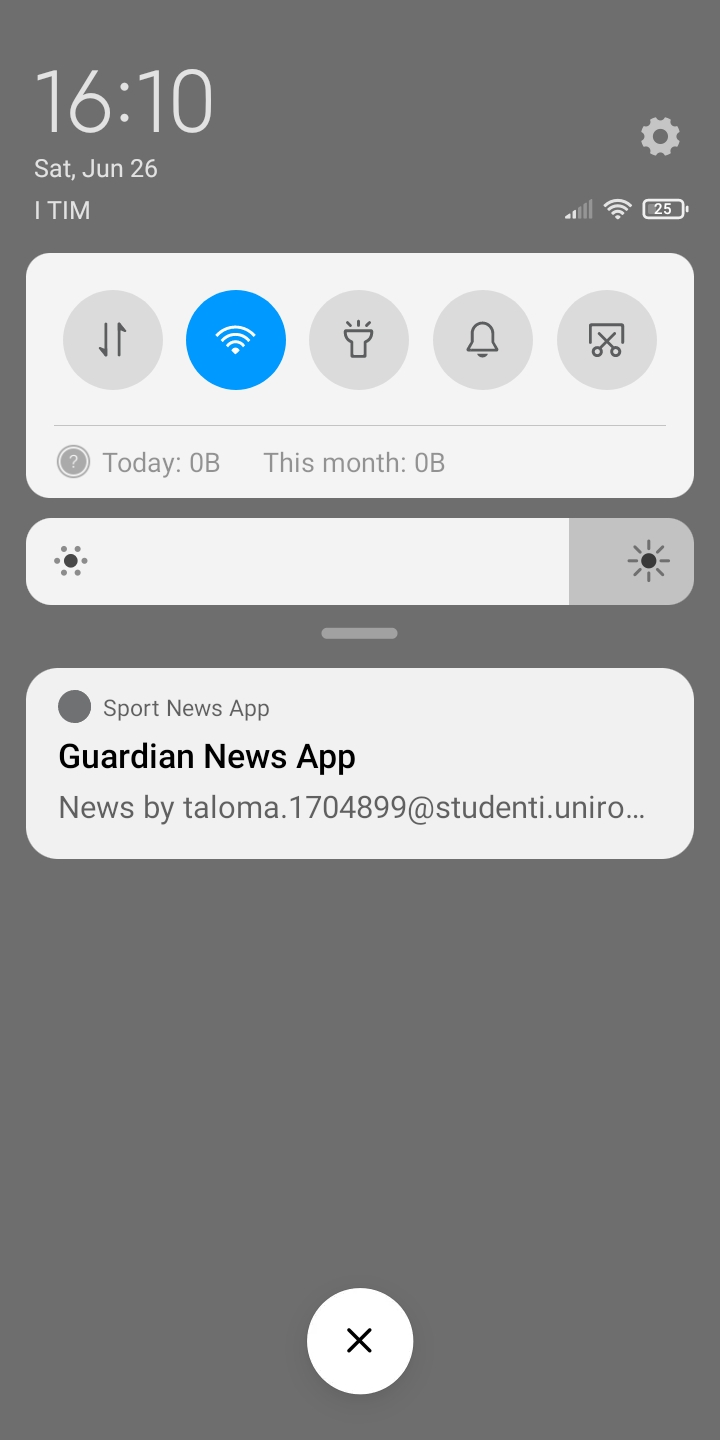
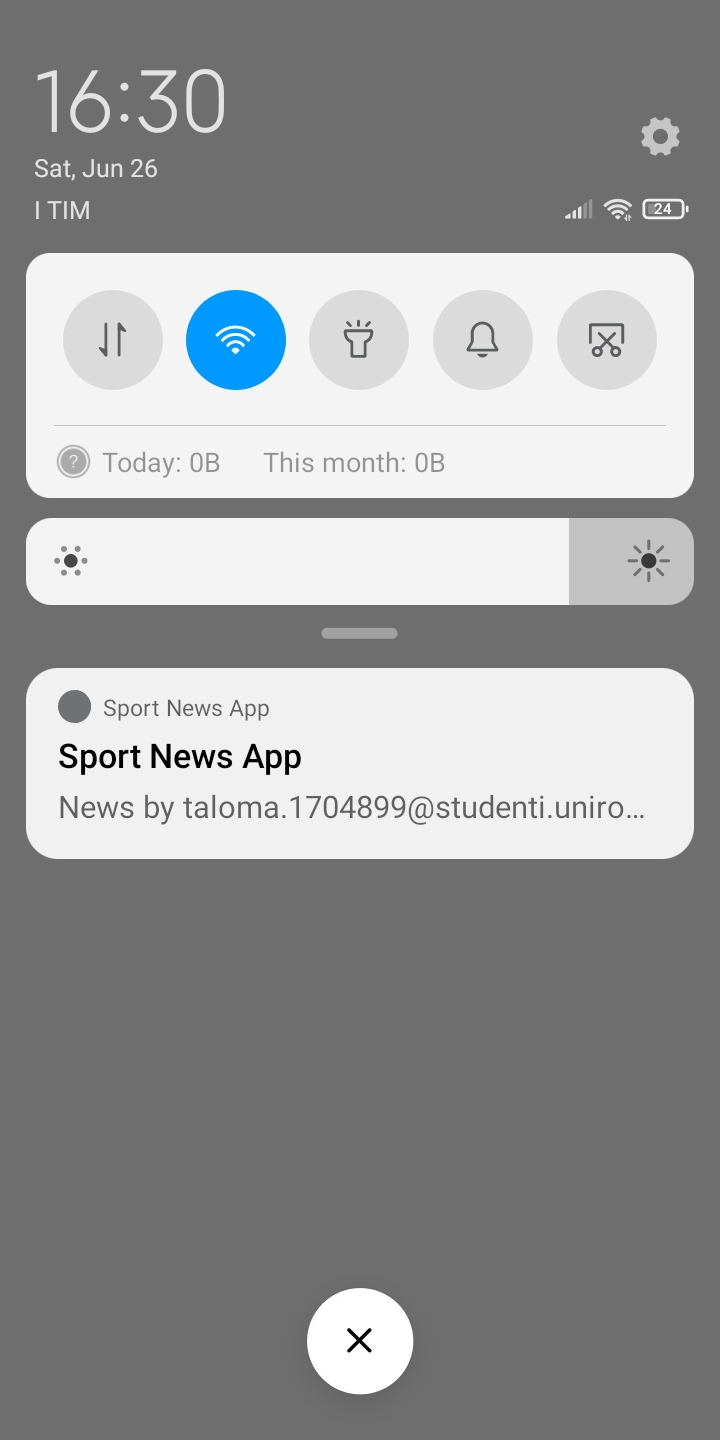
rename name in notification

Changed region(s): [[0.0917, 0.5, 0.4889, 0.5312], [0.1833, 0.0312, 0.3361, 0.0938]]

diff --git a/SportNewsApp/app/src/main/java/it/sapienza/sportnewsapp/ui/share/ShareRepository.kt b/SportNewsApp/app/src/main/java/it/sapienza/sportnewsapp/ui/share/ShareRepository.kt
@@ -85,12 +85,12 @@ class ShareRepository(context: Context, adapter: ShareAdapter, googleEmail: Stri
 
             builder = Notification.Builder(c, CHANNEL_ID)
                 .setSmallIcon(it.sapienza.sportnewsapp.R.drawable.share_colored)
-                .setContentTitle("Guardian News App")
+                .setContentTitle("Sport News App")
                 .setContentText("News by "+email)
         } else {
             builder = Notification.Builder(c)
                 .setSmallIcon(it.sapienza.sportnewsapp.R.drawable.share_colored)
-                .setContentTitle("Guardian News App")
+                .setContentTitle("Sport News App")
                 .setContentText("News by "+email)
         }
         notificationManager.notify(NOTIFICATION_ID, builder.build())
